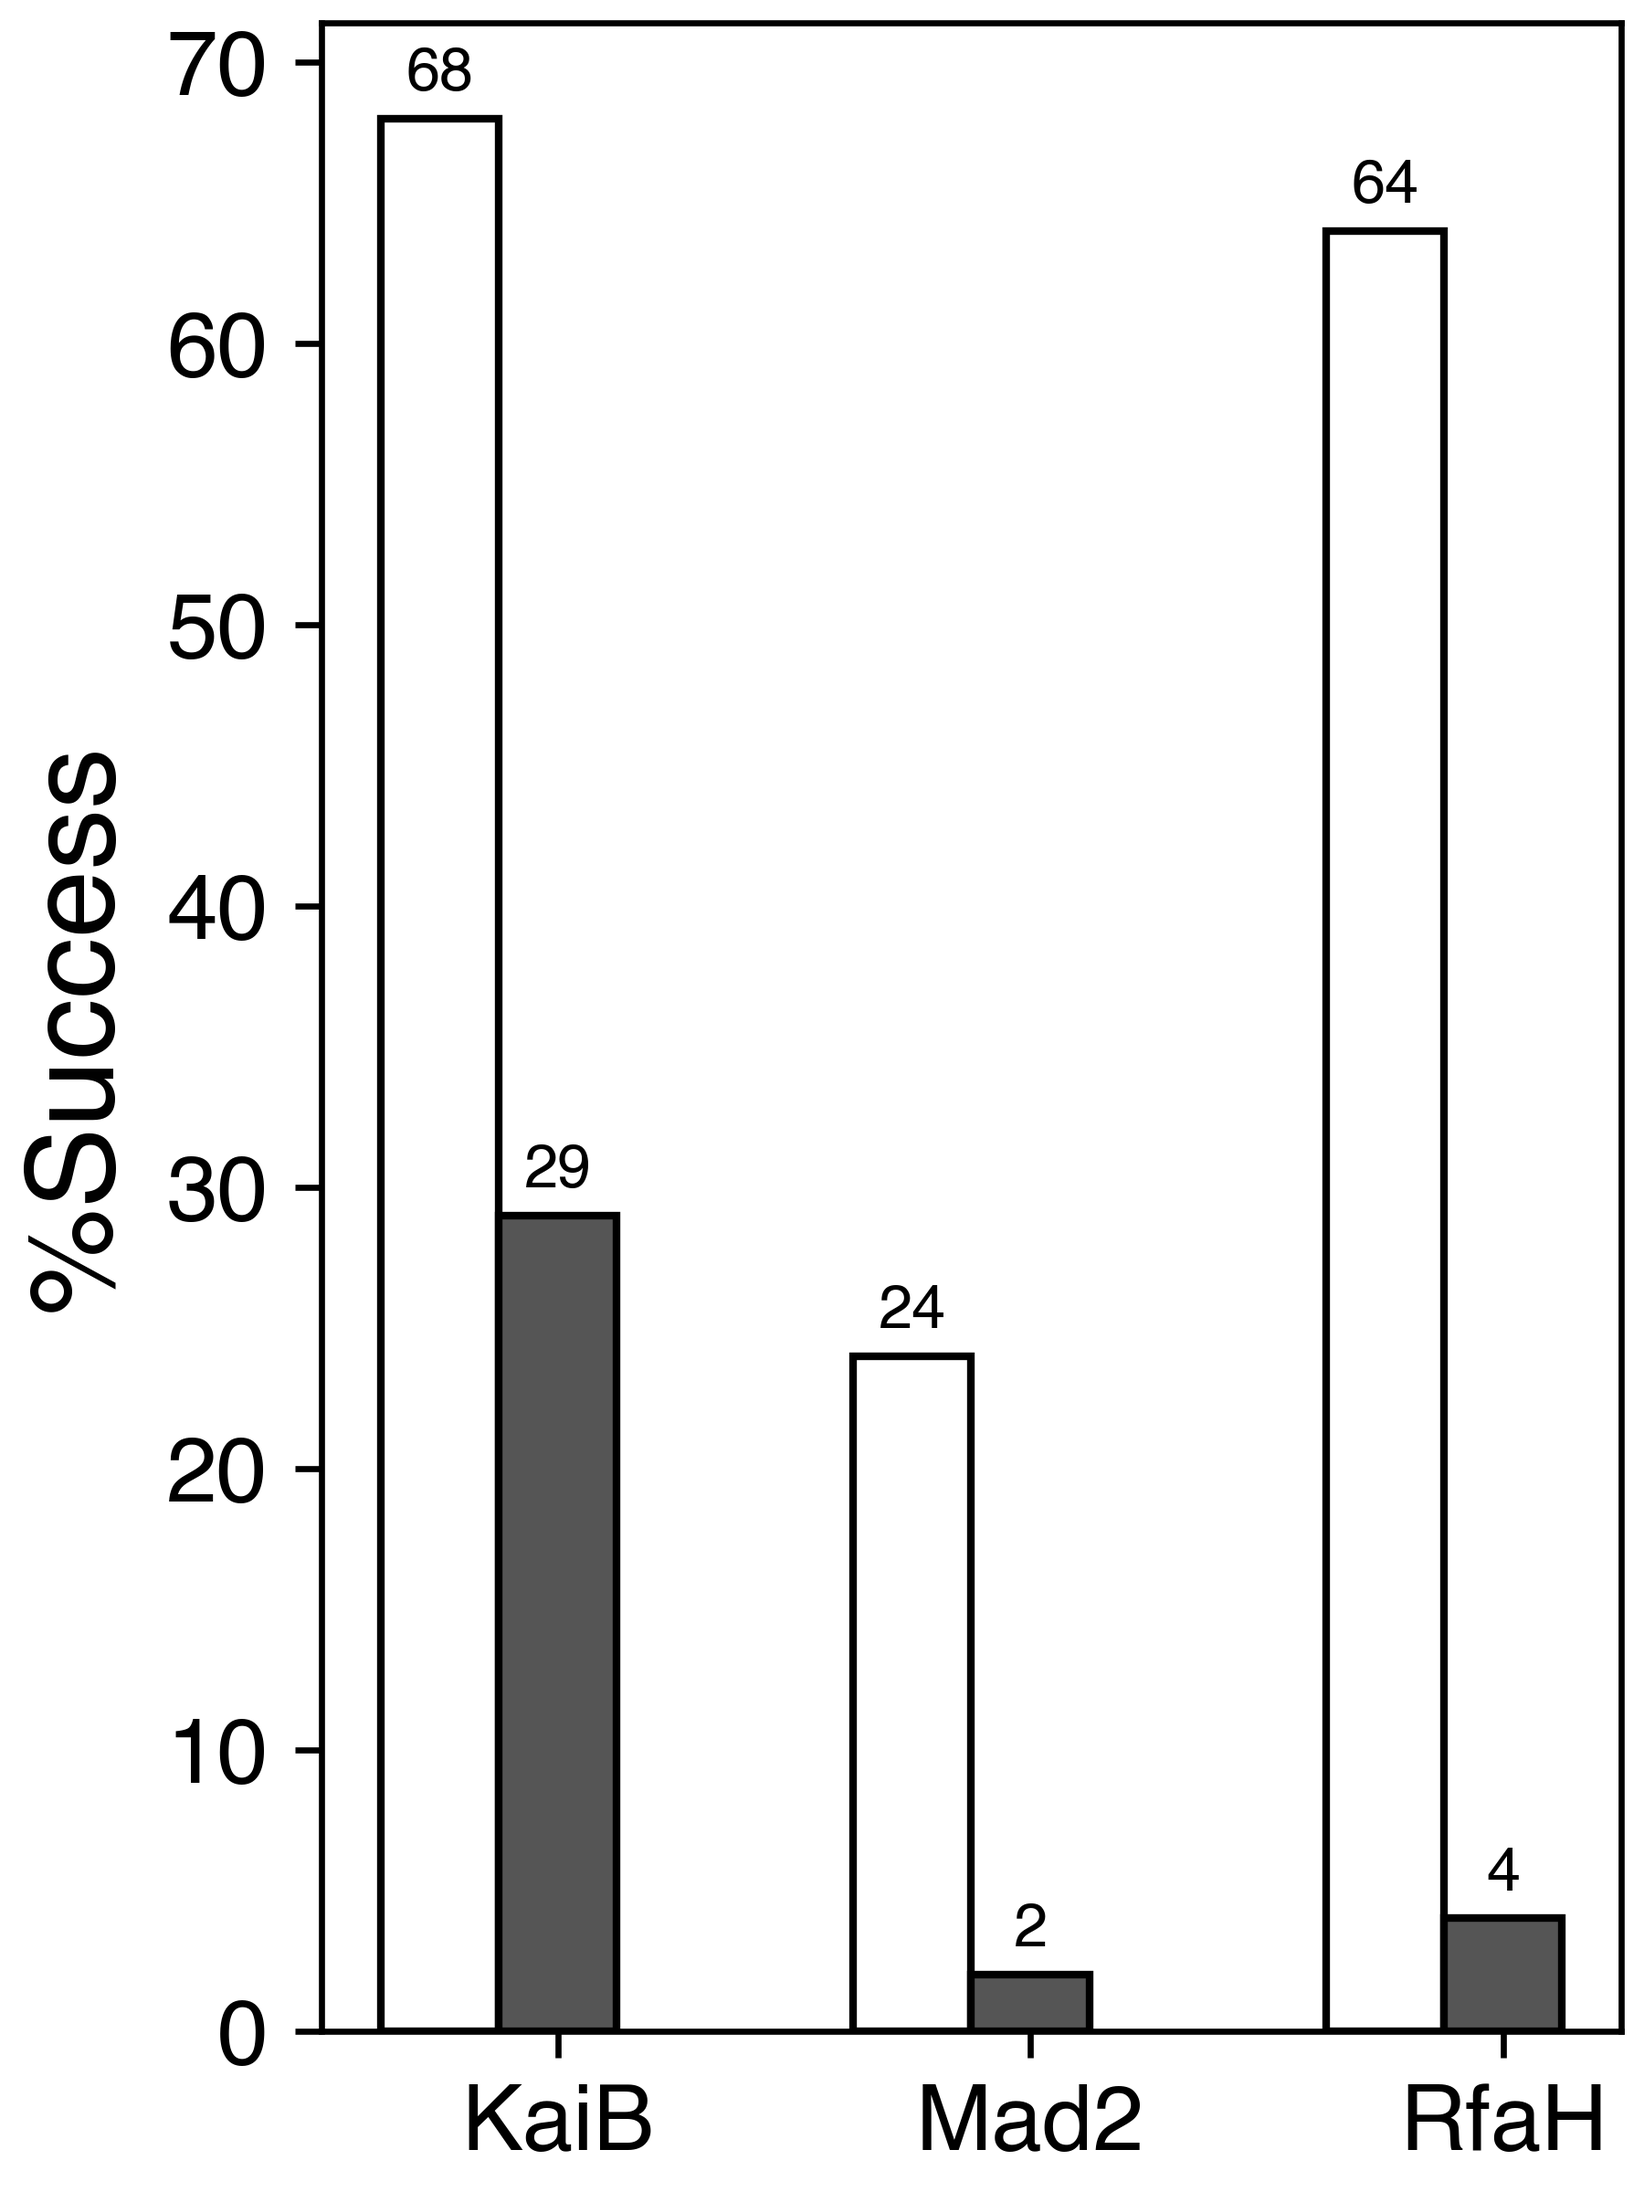
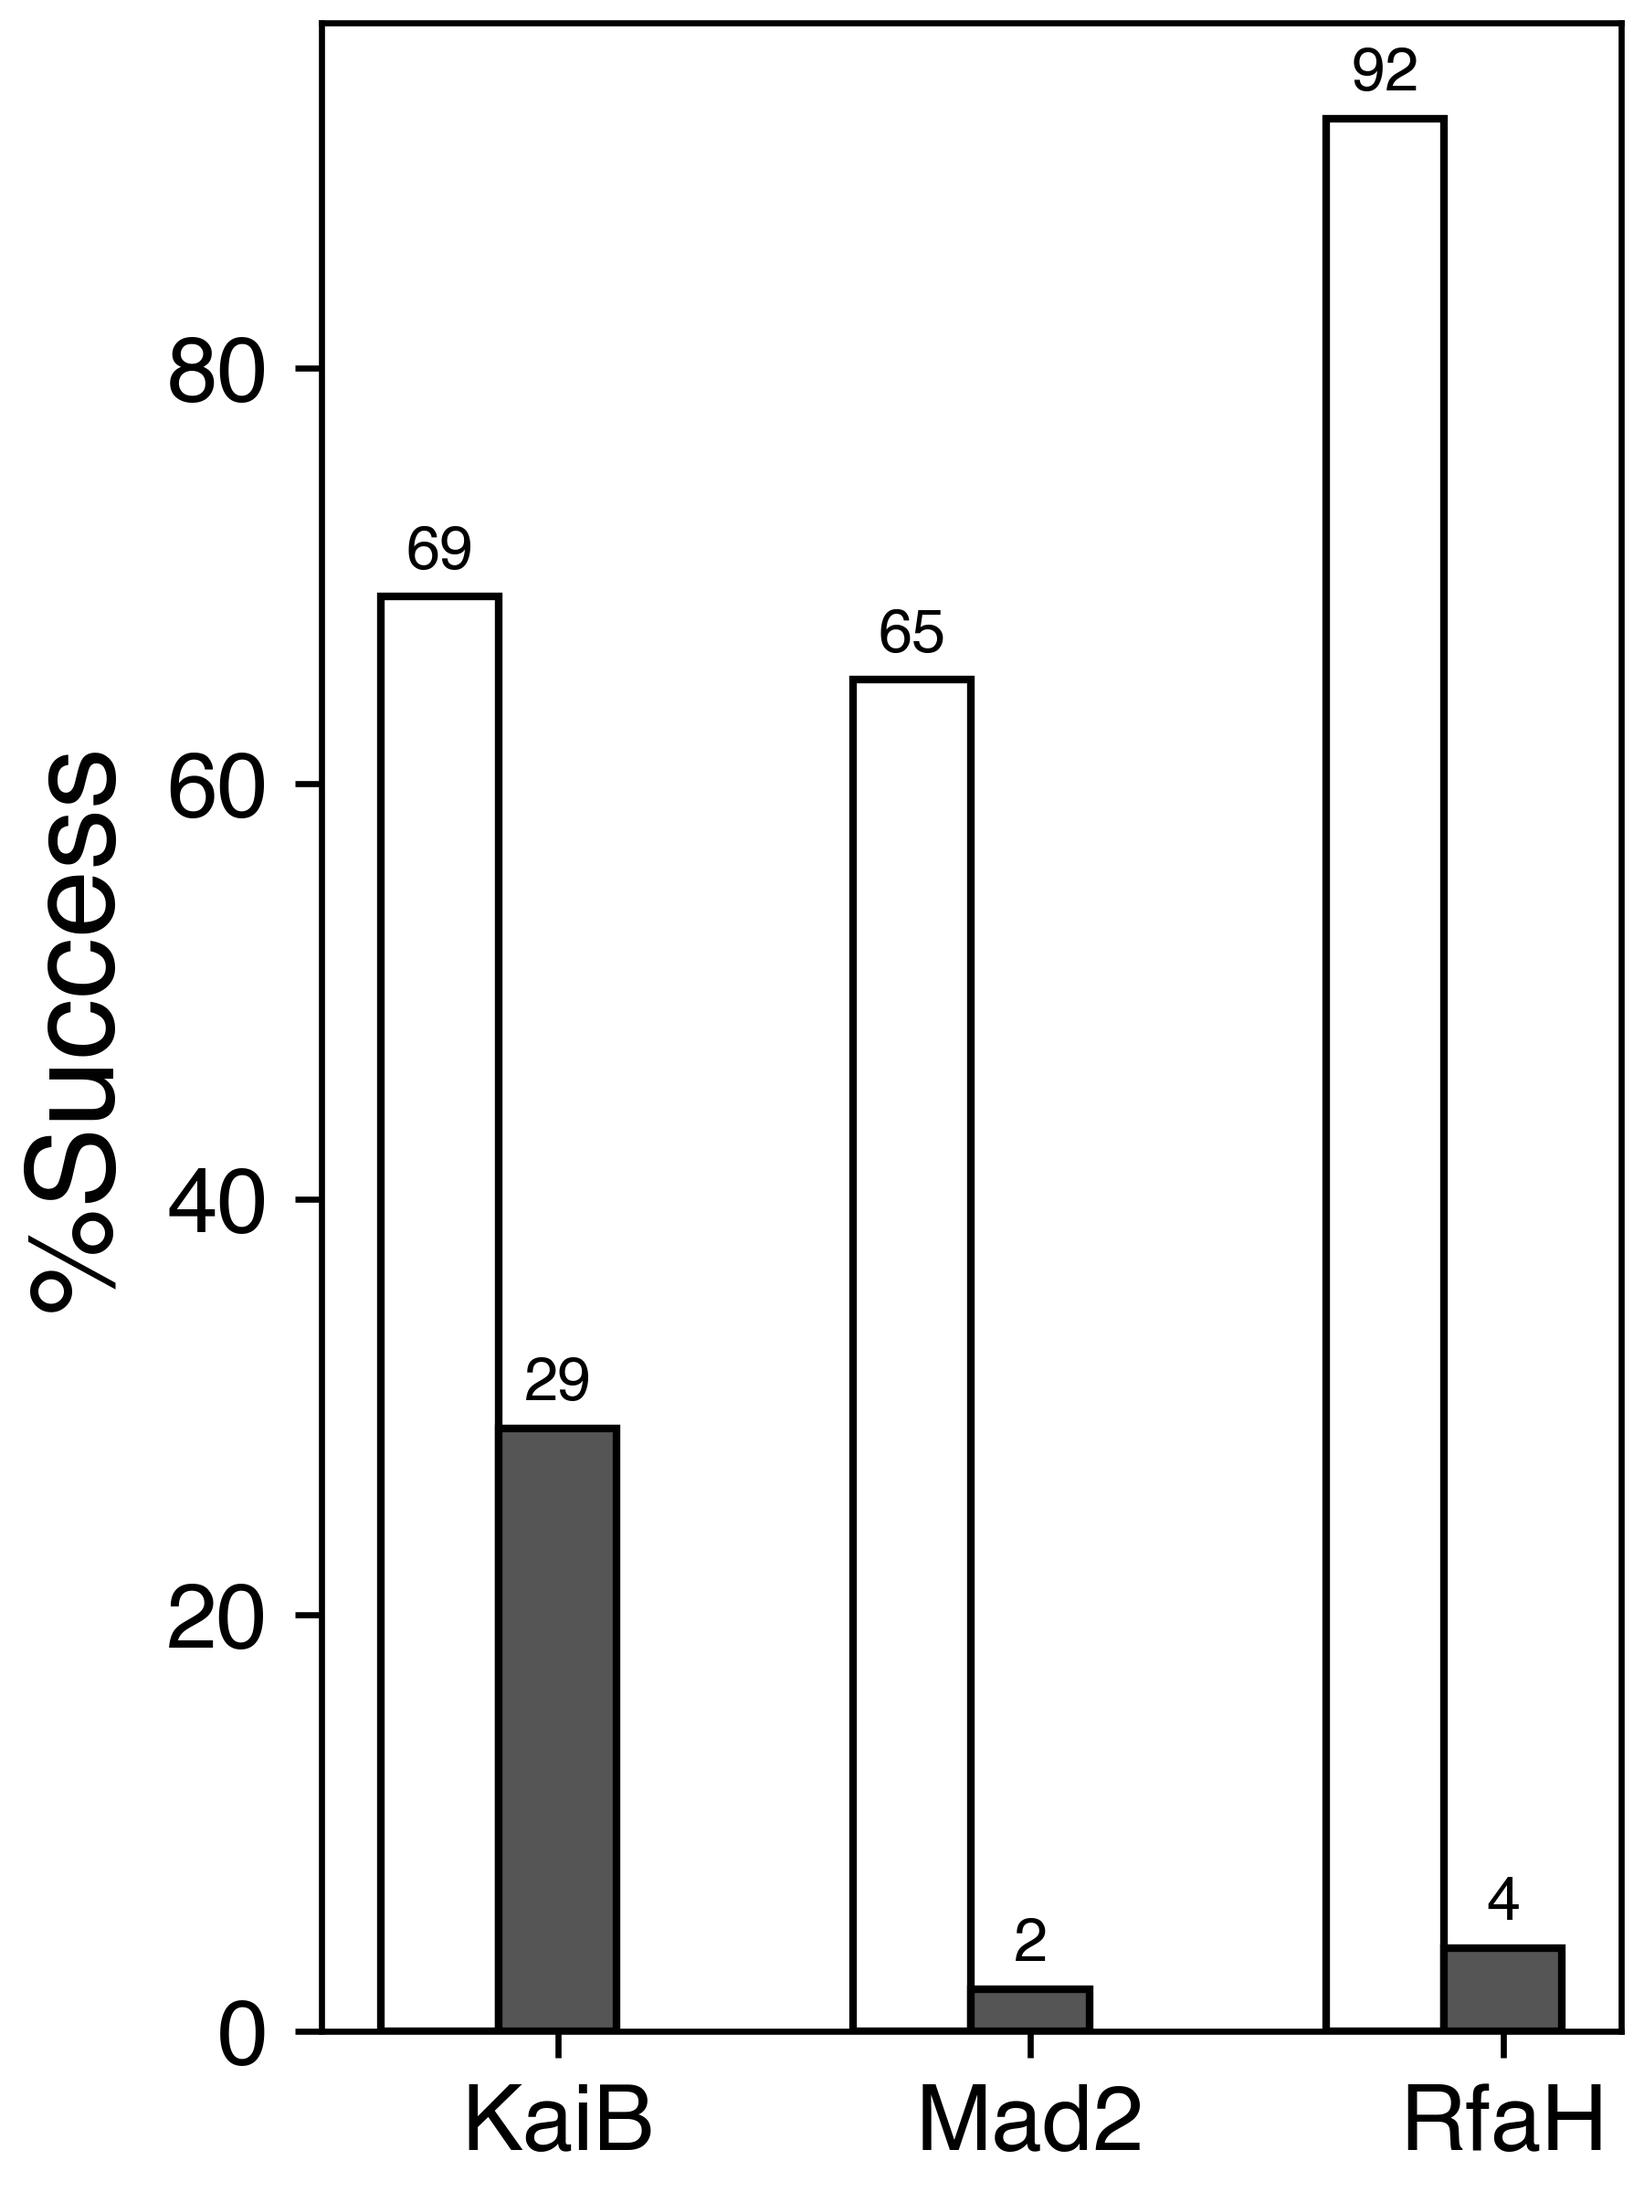
Add files via upload

diff --git a/Fig2/barplots.py b/Fig2/barplots.py
@@ -15,8 +15,8 @@ def make_fig(proteins,att,ylabel='',name='test'):
     mpl.rcParams['xtick.labelsize'] = label_size
     mpl.rcParams['ytick.labelsize'] = label_size
     mpl.rcParams['figure.figsize'] = [3,4]
-    if name == 'num_preds':
-        mpl.rcParams['figure.figsize'] = [3,3.3]
+    #if name == 'num_preds':
+        #mpl.rcParams['figure.figsize'] = [3,3.3]
 
     plt.rcParams['font.family'] = 'Helvetica'
 
@@ -42,24 +42,25 @@ if __name__ == '__main__':
     proteins = ('KaiB','Mad2','RfaH')
 
     MCCs = {
-        'CF-random': (1.0,0.87,0.62),
-        'AF-cluster': (0.6,0.7,0.4)}
+        'CF-random': (1.0,0.96,0.5),
+        'AF-cluster': (0.6,0.70,0.4)}
+        #'AF-cluster': (0.64,0.70,0.43)}
 
     Accuracies = {
-        'CF-random': (68,24,64),
+        'CF-random': (69,65,92),
         'AF-cluster': (29,2,4)}
 
     Efficiencies = {
-        'CF-random': (2,1,2),
+        'CF-random': (7,7,7),
         'AF-cluster': (329,95,250)}
 
     Structures = {
-        'CF-random': (330,95,250),
+        'CF-random': (55,55,55),
         'AF-cluster': (329,95,250)}
 
     make_fig(proteins,MCCs,'Matthews Correlation Coefficient','MCC')
     make_fig(proteins,Accuracies,'%Success','accuracy')
-    make_fig(proteins,Efficiencies,'Number of AF2/CF Runs','efficiency')
+    make_fig(proteins,Efficiencies,'Number of AF2 or CF Runs','efficiency')
     make_fig(proteins,Structures,'#Predictions','num_preds')
     
     
